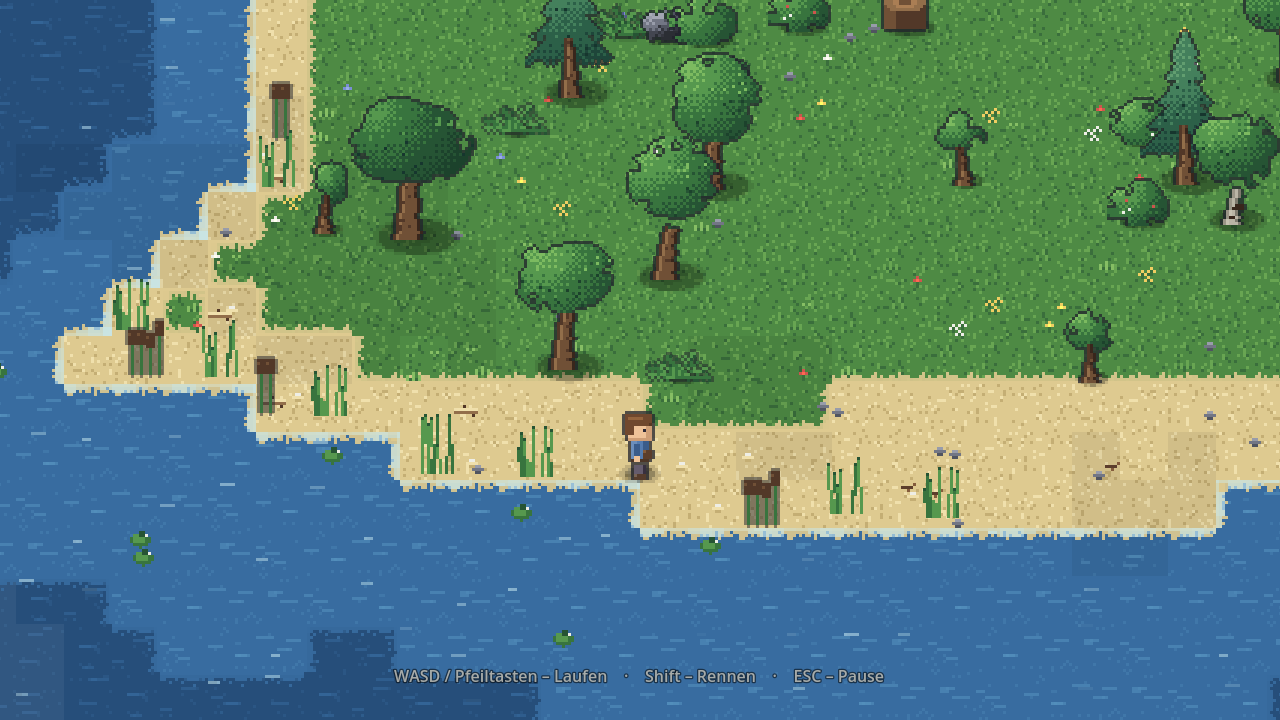
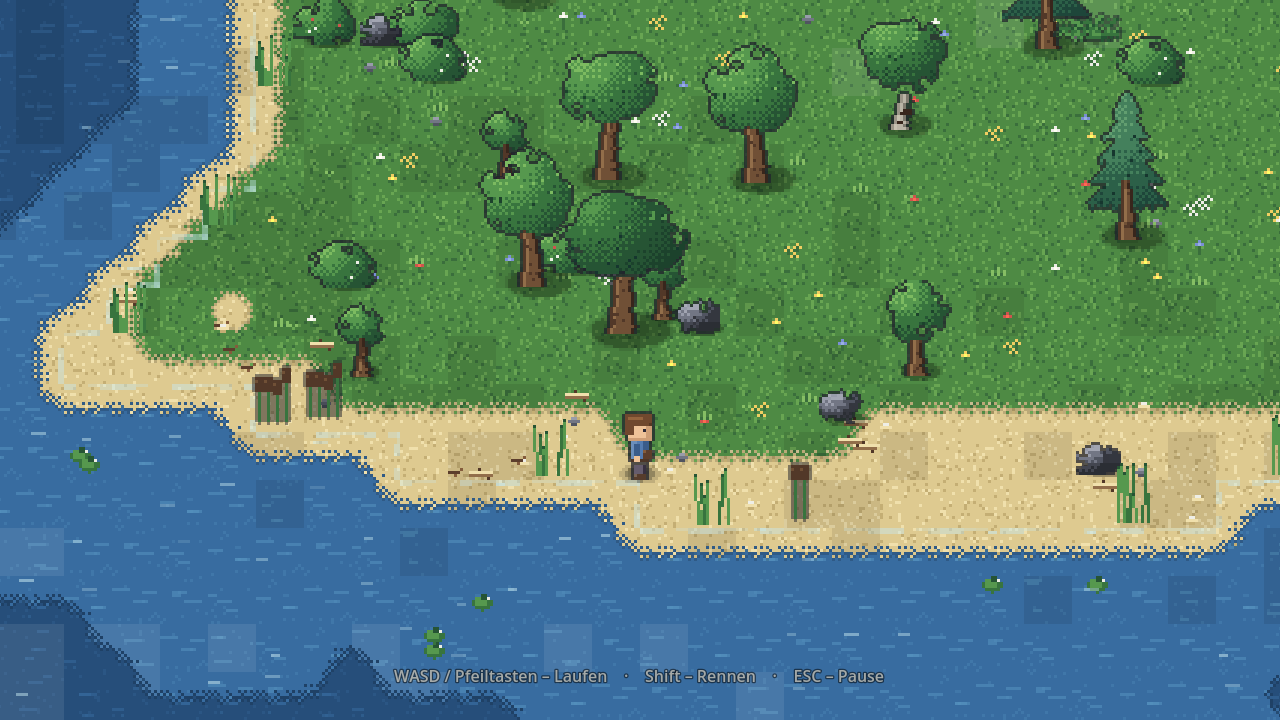
Dorf begrenzen, Schaum brechen, Helligkeitsstufen verrauschen
- Hecken als Grundstuecksgrenzen (Layout.HEDGES); Zaeune allein wirkten an
  jeder Grenze monoton
- Uferschaum zeichnete die Kachelkante nach: jetzt mit Luecken und
  geringerer Deckkraft, er folgt der Wasserkante statt dem Raster
- Helligkeitsstufen des Bodens zeichneten die Hoehenlinie des Rauschens als
  sichtbares Rechteck nach -> Stufenwahl pro Kachel verrauscht
- Mehr Streudeko auf Gras, Kleinkram an die verschobenen Gebaeude gefuehrt
- README und docs/architektur.md auf den neuen Bodenaufbau gebracht,
  Bilder erneuert

Claude-Session: https://claude.ai/code/session_01HgYAB6E32DDv1UqE7nxM7u

diff --git a/README.md b/README.md
@@ -37,11 +37,22 @@ Jungbaum, große und kleine Fichte) plus Büsche, Farne, Baumstümpfe und Tothol
 folgt Dichtefeldern statt gleichmäßigem Würfeln: es gibt Gruppen, dichte Bestände, Lichtungen und
 ausgedünnte Waldränder.
 
+**Boden** — Ein echtes Kachelraster aus neun `TileMapLayer`. Gras füllt die Karte, darüber liegen
+Wiese, Waldboden, Fels, Sand, Wasser, Tiefwasser, Weg und Pflaster. Die Schichten blenden sich per
+Terrain-Autotiling ineinander: Übergangskacheln entstehen aus bilinearer Eckinterpolation mit
+gedithertem Schwellwert, gebaute Flächen wie Weg und Pflaster bekommen stattdessen eckige
+Quadranten. Das `TileSet` wird prozedural erzeugt, hat benannte Terrains mit Eck-Bits und lässt
+sich im Godot-Editor mit dem Terrain-Pinsel weitermalen. Im Spiel ist vom Raster nichts zu sehen.
+
+**Wege** — Achsparallel gebaut: zwischen zwei Wegpunkten erst die längere, dann die kürzere Achse.
+Daraus entstehen gerade Strecken, rechte Winkel und echte T-Kreuzungen. Zwei Hauptachsen kreuzen
+sich auf dem Dorfplatz, davon zweigen Ausfallstraßen und Stichwege zu den Höfen ab.
+
 **Grafik** — Alle Texturen entstehen zur Laufzeit aus **einer** Farbpalette. Jede Fläche wird über
 eine Farbrampe schattiert, deren Licht bei allen Objekten aus derselben Richtung kommt (oben
 links); zwischen den Stufen wird gedithert. Bodenkacheln gibt es in vier Varianten mal drei
-großflächigen Helligkeitsstufen, dazu weiche Übergänge, Streudekoration, Gras das über den Wegrand
-wächst, und eingebackene Schatten. Das Wasser glitzert, der Uferschaum bewegt sich.
+großflächigen Helligkeitsstufen, dazu Streudekoration, Hecken als Grundstücksgrenzen und
+eingebackene Schatten. Das Wasser glitzert, der Uferschaum bewegt sich.
 
 **Spieler** — Eigene Figur mit Idle- und Laufanimation in drei Blickrichtungen (die vierte wird
 gespiegelt), Beschleunigung und Reibung, Schrittgeräusche.
@@ -51,7 +62,10 @@ gespiegelt), Beschleunigung und Reibung, Schrittgeräusche.
 **Kamera** — Folgt weich, bleibt innerhalb der Weltgrenzen.
 
 **Kollision** — Bäume, Felsen, Häuser, Zäune und Wasser blockieren; Wege, Wiesen und Strand sind
-begehbar. Die Kollisionsflächen des Wassers werden zu wenigen großen Rechtecken zusammengefasst.
+begehbar. Jedes Objekt kollidiert nur mit seinem Fußabdruck am Boden, nicht mit der ganzen
+Bildfläche — man läuft also hinter einer Baumkrone und einem Hausdach vorbei, aber nicht durch
+Stamm oder Wand. Die Wasserflächen werden per Greedy-Zerlegung zu wenigen grossen Rechtecken
+zusammengefasst.
 
 **UI** — Hauptmenü, Pause-Menü und Optionen (Musik, Effekte, Vollbild, Hinweise) mit erzeugten
 Pixel-Art-Rahmen: Holzknöpfe mit Fase und Nieten, gerahmte Tafeln. Das Titelbild hat gestaffelte
@@ -75,12 +89,14 @@ src/core/settings.gd       Autoload: Einstellungen, persistent
 src/core/main.gd           Zustandsautomat MENÜ / SPIEL / PAUSE / OPTIONEN
 
 src/gfx/pixel.gd           Zeichen-Werkzeuge auf Images (Rechteck, Ellipse, Outline, Farbrampe)
-src/gfx/tile_art.gd        Bodenkacheln, Helligkeitsstufen, Übergangskanten, Streudekoration
+src/gfx/tile_art.gd        Bodenkacheln, Helligkeitsstufen, Streudekoration
+src/gfx/terrain_atlas.gd   Übergangskacheln für das Eck-Autotiling
 src/gfx/prop_art.gd        Bäume, Felsen, Gebäude, Dorfinventar — alles mit Varianten
 src/gfx/actor_art.gd       Spielerfigur (Idle + Laufzyklus, 3 Richtungen)
 
-src/world/layout.gd        Von Hand gesetzte Weltstruktur (Dorf, Wege, Zäune)
-src/world/map_data.gd      Kartendaten: Bodentypen, Inselform, Begehbarkeit
+src/world/layout.gd        Von Hand gesetzte Weltstruktur (Dorf, Wege, Zäune, Hecken)
+src/world/map_data.gd      Kartendaten: Bodentypen, Inselform, Wegenetz, Begehbarkeit
+src/world/ground_tileset.gd TileSet mit benannten Terrains, bemalt die Kachelschichten
 src/world/world_builder.gd Boden backen, Requisiten verteilen, Kollision bauen
 src/world/water_fx.gd      Glitzern und Uferschaum (nur im Sichtbereich)
 src/world/world.gd         Setzt die Spielwelt zusammen
@@ -113,7 +129,8 @@ godot --headless --path . --import      # nur beim allerersten Mal nötig
 godot --headless --path . -- --selftest
 ```
 
-Der Exit-Code ist 0, wenn alles in Ordnung ist (aktuell 35 Prüfungen). Mit einer echten Anzeige
+Der Exit-Code ist 0, wenn alles in Ordnung ist (aktuell 35 Prüfungen; Weltaufbau ~790 ms,
+616 Objekte, 572 Kollisionsformen, 38 Zeichenaufrufe). Mit einer echten Anzeige
 lassen sich zusätzlich Screenshots und ein Kontaktbogen aller erzeugten Grafiken ablegen:
 
 ```bash

diff --git a/docs/architektur.md b/docs/architektur.md
@@ -92,3 +92,50 @@ gezeichnet: rund 260 Rechtecke pro Bild.
 50 ms `TIME_PROCESS`. Der Absolutwert sagt dort nichts über das Spiel aus, deshalb misst der
 Selbsttest den *Aufschlag* der Spielwelt gegenüber dem Menü und die Zahl der gezeichneten
 Wasser-Rechtecke. Auf echter Hardware sind beide Werte unkritisch.
+
+---
+
+## Nachtrag: vom gebackenen Bild zum echten Kachelraster
+
+Der Boden war eine einzige gebackene Textur. Die Übergänge zwischen zwei Bodentypen entstanden
+aus geditherten Streifen an den vier Kachelseiten — ohne Eckkacheln. Küstenlinien und Wegränder
+liefen dadurch treppenförmig, und die Karte war weder inspizierbar noch von Hand nachzubearbeiten.
+
+**Jetzt neun `TileMapLayer`.** Gras füllt die Karte, darüber liegen Wiese, Waldboden, Fels, Sand,
+Wasser, Tiefwasser, Weg und Pflaster. Jede Schicht blendet sich per Eck-Autotiling in die
+darunterliegende ein. Weil Gras die Grundfüllung ist, muss von jeder weiteren Schicht nur die
+tatsächlich sichtbare Fläche gesetzt werden.
+
+**Die Übergangskacheln entstehen rechnerisch.** Für jede der 15 Eckmasken wird die Deckung durch
+bilineare Interpolation der vier Eckwerte bestimmt und mit einer geditherten Schwelle
+freigestellt — daraus ergeben sich runde Aussen- und Innenecken von selbst. Gebaute Flächen (Weg,
+Pflaster) verwenden stattdessen ganze Quadranten mit leicht aufgerauter Innenkante: ein
+gepflasterter Platz hat gerade Kanten, eine Wiese nicht. Für freistehende Kacheln gibt es eine
+eigene Form; ohne sie würde eine Kachel ohne gleichartige Nachbarn verschwinden.
+
+**Zur Engine-Frage.** Godots Terrain-System im Modus `TERRAIN_MODE_MATCH_CORNERS` wurde zuerst
+direkt verwendet. Ein Probelauf hat die Zuordnung Maske → Kachel Bit für Bit festgehalten: eine
+Ecke gilt als bedeckt, wenn alle vier dort zusammenstoßenden Kacheln zur Schicht gehören.
+`set_cells_terrain_connect()` über alle Zellen kostete allerdings **4119 ms**. Dieselbe Regel
+selbst gerechnet liefert dieselbe Ausgabe in **127 ms**, weil die Kachelsuche entfällt. Das
+`TileSet` deklariert die Terrains trotzdem vollständig mit Namen und Eck-Bits — die Karte lässt
+sich also im Godot-Editor mit dem Terrain-Pinsel weiterbearbeiten.
+
+**Wege sind achsparallel.** Zwischen zwei Wegpunkten wird erst entlang der längeren, dann entlang
+der kürzeren Achse gebaut. Das ergibt gerade Strecken, rechte Winkel und echte T-Kreuzungen. Die
+vorherigen Catmull-Rom-Kurven mäanderten und zerfielen beim Autotiling in Punkte: unterhalb von
+zwei Kacheln Breite hat eine Fläche keine vollständig bedeckte Ecke mehr.
+
+**Was beim Umbau kaputtging und wieder repariert wurde**
+- Wege zerfielen zu einzelnen Punkten (zu schmal für Eck-Autotiling)
+- Waldboden und Wiese verschwanden: die Regionen-Verwischung mit 42 % zerlegte sie in
+  Einzelkacheln. Sie war ein Notbehelf gegen harte Kachelkanten und steht jetzt auf 16 %
+- Die Helligkeitsstufen zeichneten die Höhenlinie des Rauschens als sichtbares Rechteck nach,
+  bis die Stufenwahl pro Kachel verrauscht wurde
+- Der Uferschaum zeichnete die Kachelkante nach, statt der neuen Wasserkante zu folgen
+
+**Zur Leistungsmessung.** Die Prüfung „Weltdarstellung unter 12 ms" bewertete einen Wert, der auf
+dem Software-Rasterizer der Testumgebung zwischen −10 ms und +20 ms schwankt — er misst dort die
+Füllrate, nicht das Spiel. Geprüft werden jetzt Ladezeit, Physikzeit, Wasserlast und die Zahl der
+Zeichenaufrufe (38, die Kachelschichten werden also gebündelt). Bricht das Batching, fällt es dort
+sofort auf. Der Prozesszeit-Wert wird nur noch berichtet.
